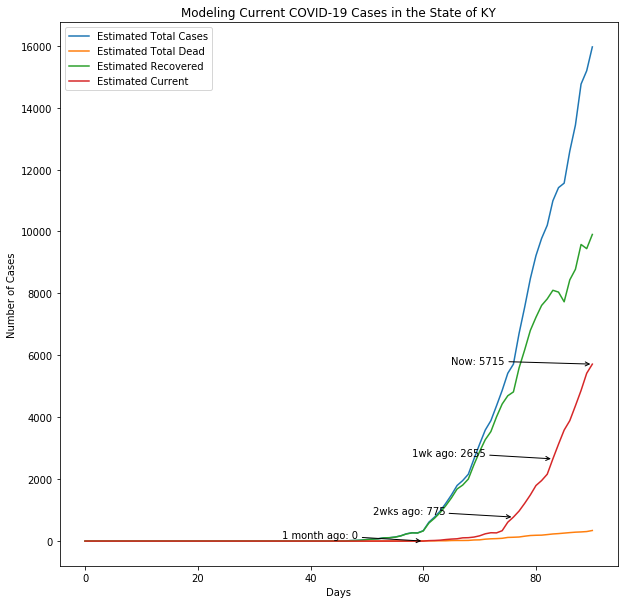
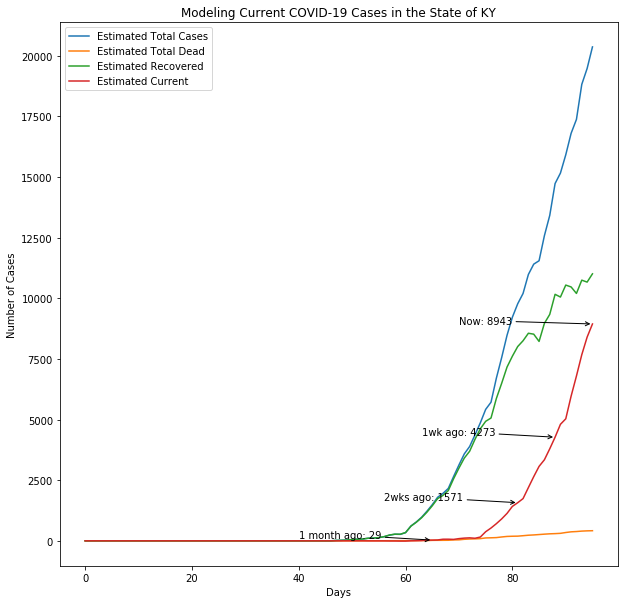
Updatedgraphics as of 4/27. Refined 'current' calculation to be more accurate.

diff --git a/pages/covid.html b/pages/covid.html
@@ -30,7 +30,7 @@
                 <li>Recovered cases are the total infected minus the total infected cases two weeks ago minus the total infected cases today multiplied by the mortality rate. </li>
                 <li>Mortality rate is used based on the deaths divided by total cases. When used in calculating other values, the most recent estimate is used, as most data is based on cumulative numbers.</li>
             </ol>
-            <p class="project">To the right are visualizations I was able to come up as of April 22, 2020. They will be periodically updated as new data comes in.</p>
+            <p class="project">To the right are visualizations I was able to come up as of April 27, 2020. They will be periodically updated as new data comes in.</p>
             <p class="sources">Sources for data: <br>
 <a href="https://usafacts.org/visualizations/coronavirus-covid-19-spread-map/" target="_blank">Infection & Death Counts</a><br>
 <a href="https://www.who.int/news-room/q-a-detail/q-a-similarities-and-differences-covid-19-and-influenza" target="_blank">WHO</a>
